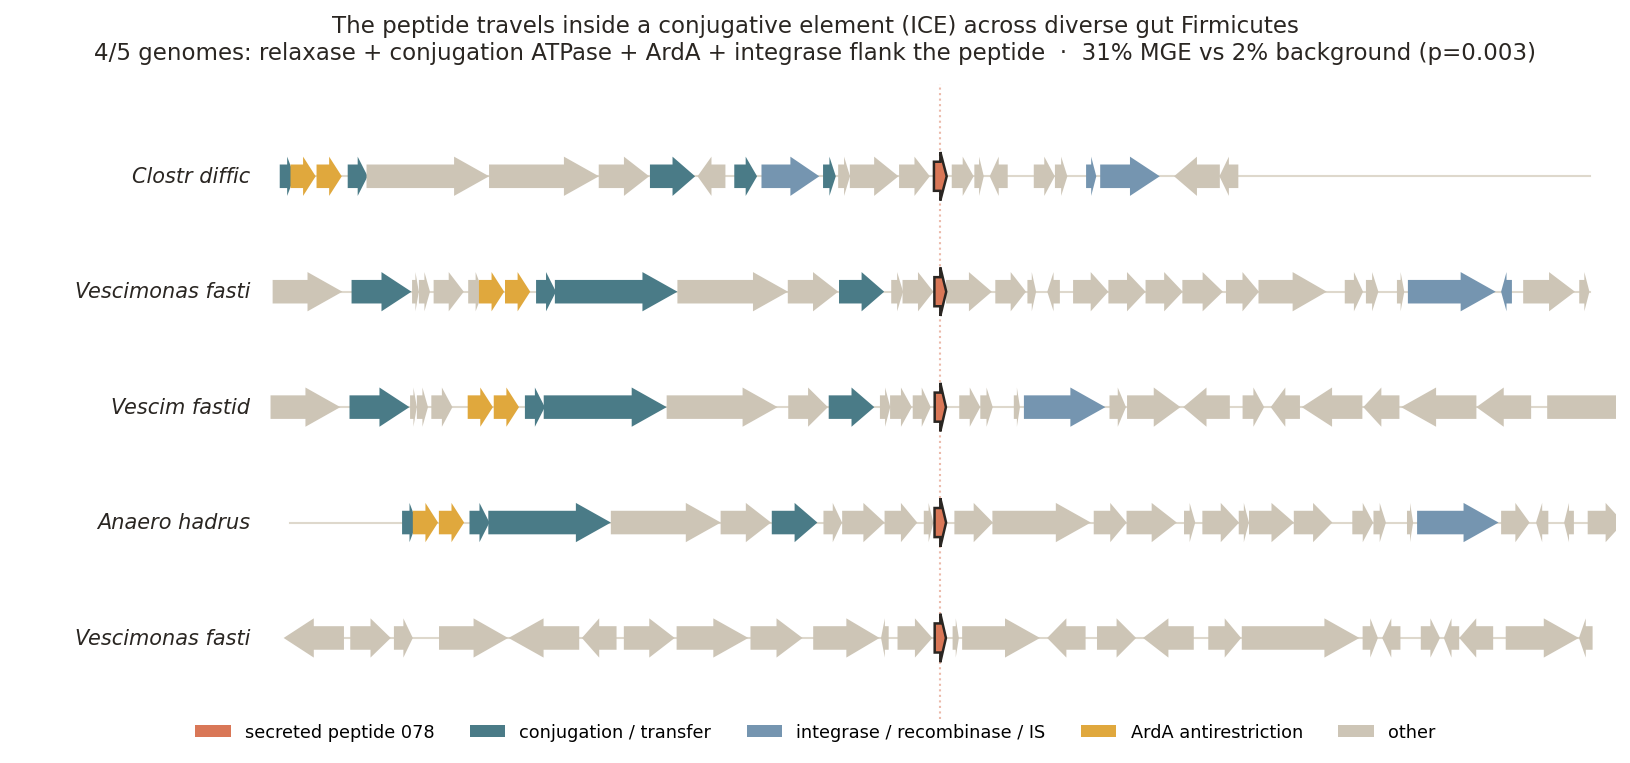
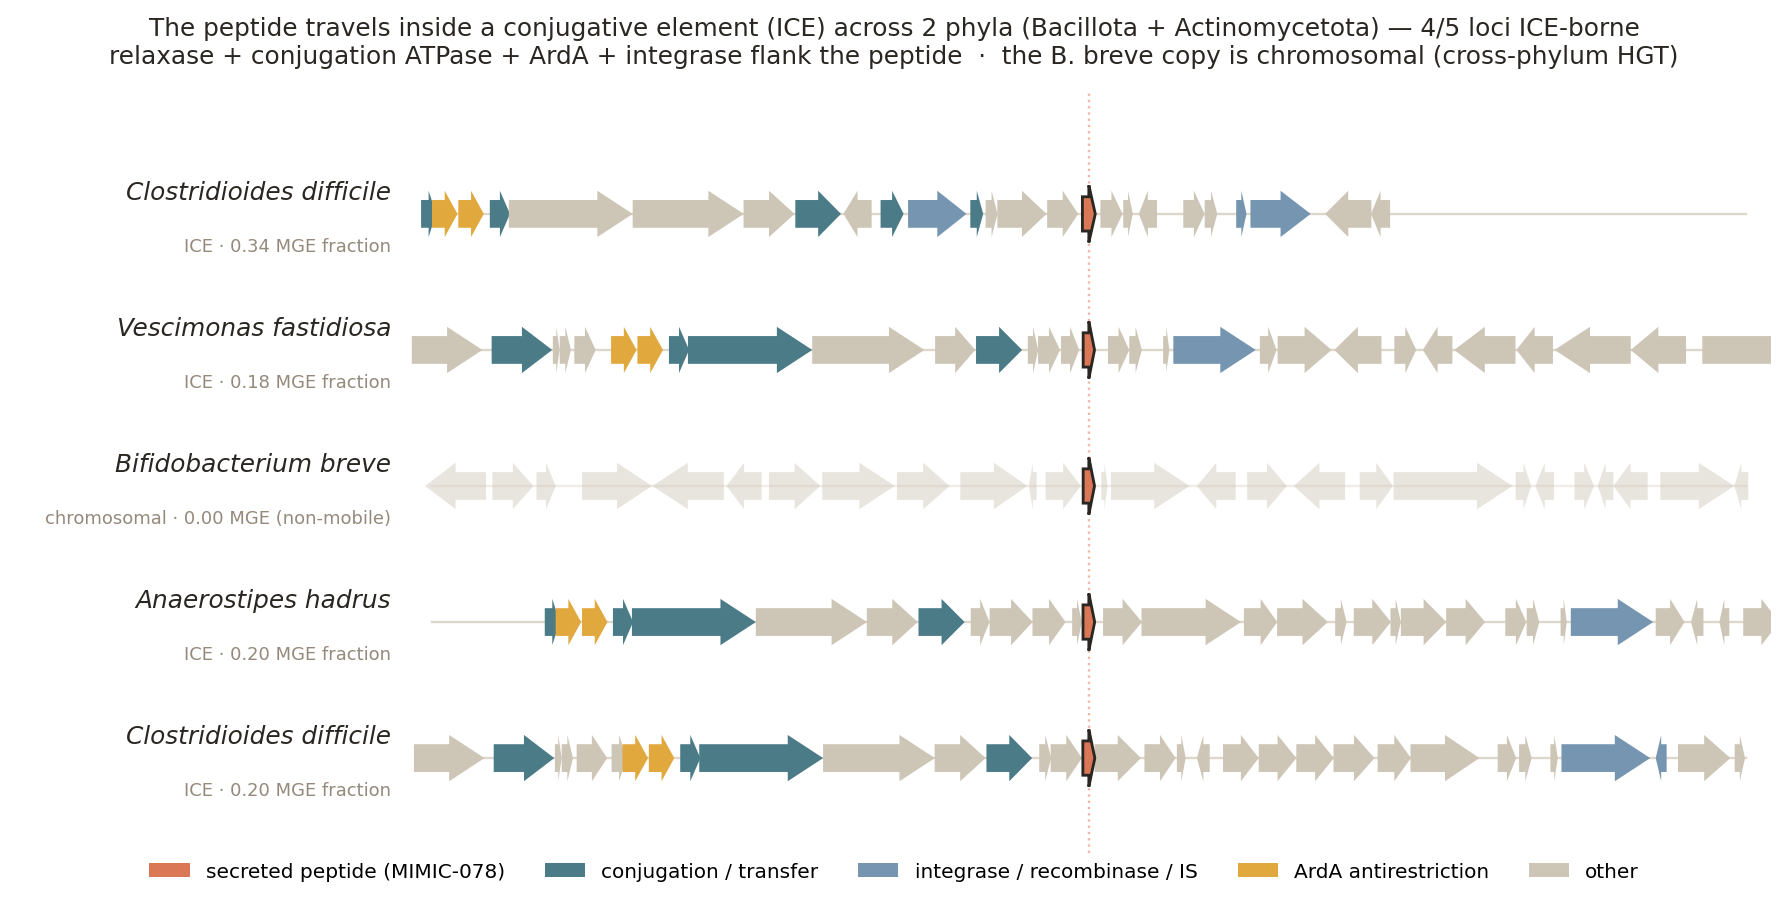
Address Zhaojun audit: fix ICE synteny species labels (B.breve was mislabeled Vescimonas; retitle Firmicutes->2 phyla); rebuild Pages index.html from current deck (was stale 4-families version); add gc-specificity slide (#7) + 6-panel evidence backup slide; document mobility is 078-family-specific (

diff --git a/README.md b/README.md
@@ -15,7 +15,9 @@
 
 The human gut encodes a hundred times more microbial genes than human genes — the body's largest reservoir of coding potential. We have spent a decade reading its output as *chemistry*: short-chain fatty acids, bile acids, tryptophan metabolites, each mapped to a human receptor. Whether commensals also signal in *protein* — secreted miniproteins that engage our receptors directly — is essentially unknown. We built a structure-first screen to ask, co-folding ~2,000 gut-secreted miniprotein families against a panel of human immune receptors and sequence-matched decoys, scoring each interface against a null.
 
-Here we report **MIMIC**, a **M**obile **I**mmuno**M**odulatory **I**CE-borne **C**ommensal peptide. Two features distinguish it. First, it folds a confident interface on **IL7R** and lands on the exact surface where interleukin-7 binds (65% overlap), with no sequence homology to IL-7 — a structural mimic, not a captured gene. Second, it is not fixed to one genome: MIMIC rides a conjugative element and its family spans 239 gut-bacterial species, including 15 strains of the pathogen *Clostridioides difficile* — the neighborhood is mobile-element-enriched at p = 0.003 (2nd of 592 families).
+Here we report **MIMIC**, a **M**obile **I**mmuno**M**odulatory **I**CE-borne **C**ommensal peptide. Two features distinguish it. First, it folds a confident interface on **IL7R** and lands on the exact surface where interleukin-7 binds (65% overlap), with no sequence homology to IL-7 — a structural mimic, not a captured gene. Second, it is not fixed to one genome: MIMIC rides a conjugative element and its family spans 239 gut-bacterial species, including 15 strains of the pathogen *Clostridioides difficile* — the neighborhood is mobile-element-enriched at p = 0.
+
+**Mobility is specific to this family, not the candidate set.** Of the 592 candidate families scanned for genomic context, only three sit above the 95th-percentile mobility threshold — and all three are 078-family IL-7Rα binders (078_038_456 at 31%, 083_643_341 at 15%, 078_038_499 at 11%). Every independent candidate — including the other IL7R hits and the TNFR2/IL10RA/IL23R binders — sits at genomic background (median 0% MGE neighbors). So mobility co-segregates with the peptide that engages IL-7Rα; it is not a general property of gut smORFs.003 (2nd of 592 families).
 
 The ligand-competitive geometry suggests an **IL-7 antagonist** — an immune-shielding
 peptide that quiets lymphocyte signaling to keep its microbe invisible. We propose this as a